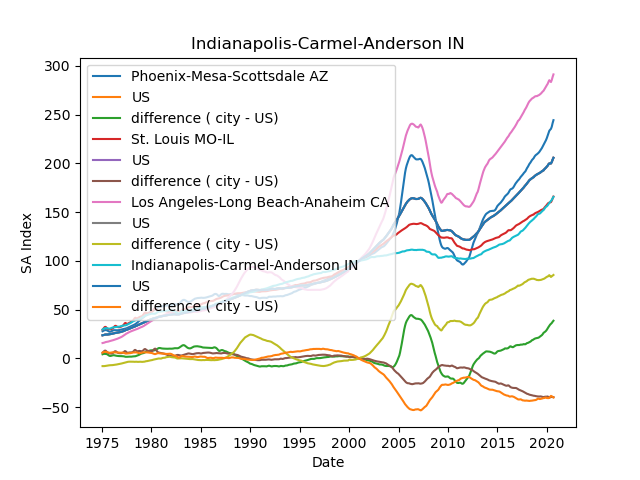
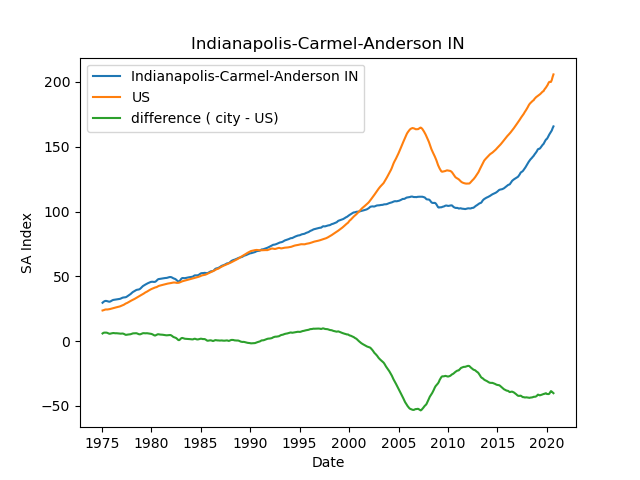
fixed graphs, started stats.

diff --git a/plot.py b/plot.py
@@ -3,16 +3,21 @@ from getCityData import indicesDict, areaCodes, USIndexDF
 import matplotlib.pyplot as plt
 #import pandas as pd
 
-####plot date vs. sa for select city
-#Choose city
-for areaCodeForPlot in areaCodes:
-    #get dataframe for city
-    plotDF = indicesDict[str(areaCodeForPlot)]
-    cityName = cityCodes[cityCodes['area_code'] == areaCodeForPlot]['city_string'].values[0]
+saDiffDict = {}
 
+####plot date vs. sa (city, US and city - US) for select city
+#Choose city
+for areaCode in areaCodes:
+    #get dataframe for city
+    plotDF = indicesDict[str(areaCode)]
+    cityName = cityCodes[cityCodes['area_code'] == areaCode]['city_string'].values[0]
+
+    #make dataframe comparing city and US sa indices
     cityUSDF = plotDF.merge(USIndexDF, on='date')
     cityUSDF['sa'] = cityUSDF['sa_x'] - cityUSDF['sa_y']
     cityUSDF.rename(columns = {'sa_x':'sa_city', 'sa_y':'sa_US', 'sa':'sa_city-US'}, inplace = True)
+    saDiffDict[str(areaCode)]=cityUSDF[['date', 'sa_city-US']]
+
     #set x, y arrays and plot for city
     x1 = cityUSDF['date'].values
     y1 = cityUSDF['sa_city'].values
@@ -32,7 +37,9 @@ for areaCodeForPlot in areaCodes:
     plt.title(cityName)
     plt.xlabel('Date')
     plt.ylabel("SA Index")
+
     #show plot
     plt.legend()
     plt.savefig('cityPlots/' + cityName + '_plot.png')
+    plt.clf()
 

diff --git a/stats.py b/stats.py
@@ -1,0 +1,12 @@
+from importingCSVs import cityCodes
+from getCityData import areaCodes
+from plot import saDiffDict
+
+#get dataframe for city
+areaCode = areaCodes[0]
+statsDF = saDiffDict[str(areaCode)]
+cityName = cityCodes[cityCodes['area_code'] == areaCode]['city_string'].values[0]
+mean = statsDF['sa_city-US'].mean()
+std = statsDF['sa_city-US'].std()
+print('mean:' + str(mean))
+print('stfd: ' + str(std))
